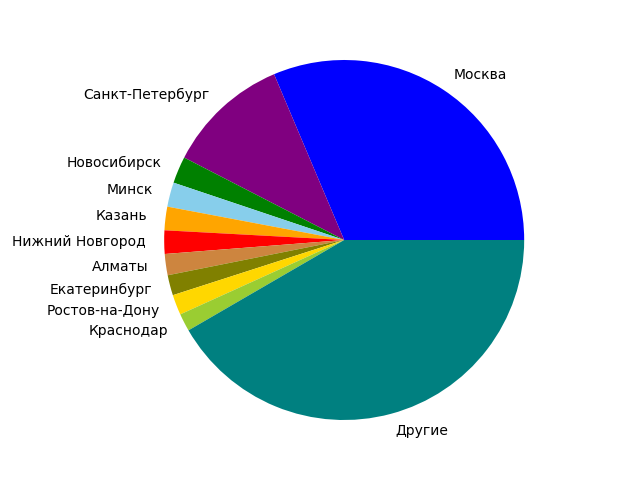
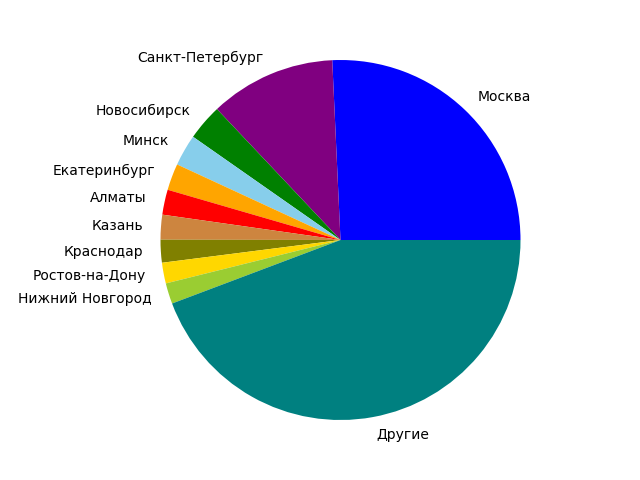
create charts and tables on another file

diff --git a/statistic.py b/statistic.py
@@ -124,12 +124,19 @@ class InputConnect:
         vacanciesCounts = {k: val for k, val in vacanciesCounts.items() if val >= 0.01}
         vacanciesCities = dict(sorted(vacanciesCounts.items(), key=lambda item: item[1], reverse=True))
         vacanciesCities = dict(list(vacanciesCities.items())[:10])
-        print('Динамика уровня зарплат по годам:', salaryLevelYear)
-        print('Динамика количества вакансий по годам:', vacYear)
-        print('Динамика уровня зарплат по годам для выбранной профессии:', vacSalaryLevelYear)
-        print('Динамика количества вакансий по годам для выбранной профессии:', vacCountsYear)
-        print('Уровень зарплат по городам (в порядке убывания):', salaryCities)
-        print('Доля вакансий по городам (в порядке убывания):', vacanciesCities)
+        print('Динамика уровня зарплат по годам:', salaryLevelYear.keys())
+        print('Динамика уровня зарплат по годам:', salaryLevelYear.values())
+        print('Динамика количества вакансий по годам:', vacYear.values())
+        print('Динамика уровня зарплат по годам для выбранной профессии:', vacSalaryLevelYear.values())
+        print('Динамика количества вакансий по годам для выбранной профессии:', vacCountsYear.values())
+        print('Уровень зарплат по городам (в порядке убывания):', salaryCities.keys())
+        print('Уровень зарплат по городам (в порядке убывания):', salaryCities.values())
+        print('Доля вакансий по городам (в порядке убывания):', vacanciesCities.keys())
+        vacPercents = []
+        for value in vacanciesCities.values():
+            rate = (str(value * 100) + '%').replace('.', ',')
+            vacPercents.append(rate)
+        print('Доля вакансий по городам (в порядке убывания):', vacPercents)
         return salaryLevelYear, vacYear, vacSalaryLevelYear, vacCountsYear, salaryCities, vacanciesCities
 pars = InputConnect()
 if pars.params is not None:

diff --git a/charts.py b/charts.py
@@ -193,12 +193,14 @@ class Report:
         # ax = df.plot.bar(ylim=(0, 1500), width=0.97, figsize=(26, 10), fontsize=12)
         # ax.grid(axis='y')
         # for p in ax.patches:
-        #         ax.annotate(str(p.get_height()), (p.get_x() + p.get_width() / 2., (p.get_height() + 5) - p.get_height()), ha='center', va='center', size=10, fontweight='bold', xytext=(0, 15), textcoords='offset points')
+        #         ax.annotate(str(p.get_height()), (p.get_x() + p.get_width() / 2.,
+        #         (p.get_height() + 5) - p.get_height()), ha='center', va='center', size=10,
+        #         fontweight='bold', xytext=(0, 15), textcoords='offset points')
         # ax.figure.savefig('graphVacCountsYearTest.png')
         # x1 = np.arange(len(list(columnsData[0].keys())))
         # width = 0.4
         fig, ax4 = plt.subplots()
-        # figsize=(8, 6)
+        # figsize=(12, 6)
         # ax1.bar(x1 - width, list(columnsData[0].values()), width, label='средняя з/п')
         # ax1.bar(x1, list(columnsData[2].values()), width, label='з/п ' + 'Frontend-программист')
         # ax1.grid(axis='y')
